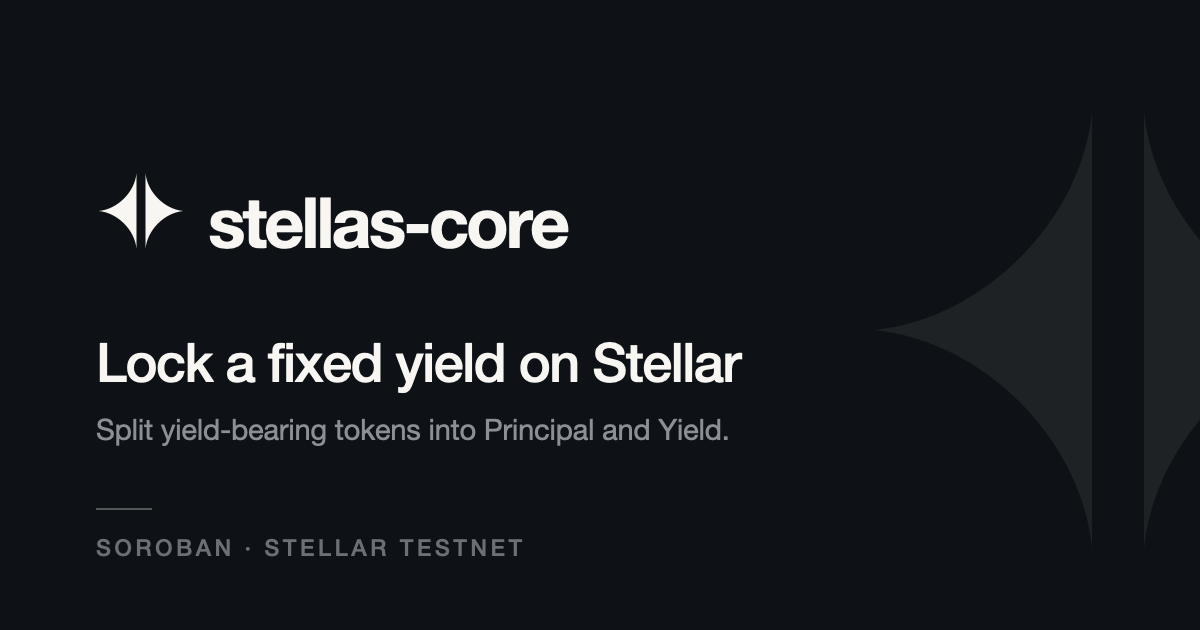
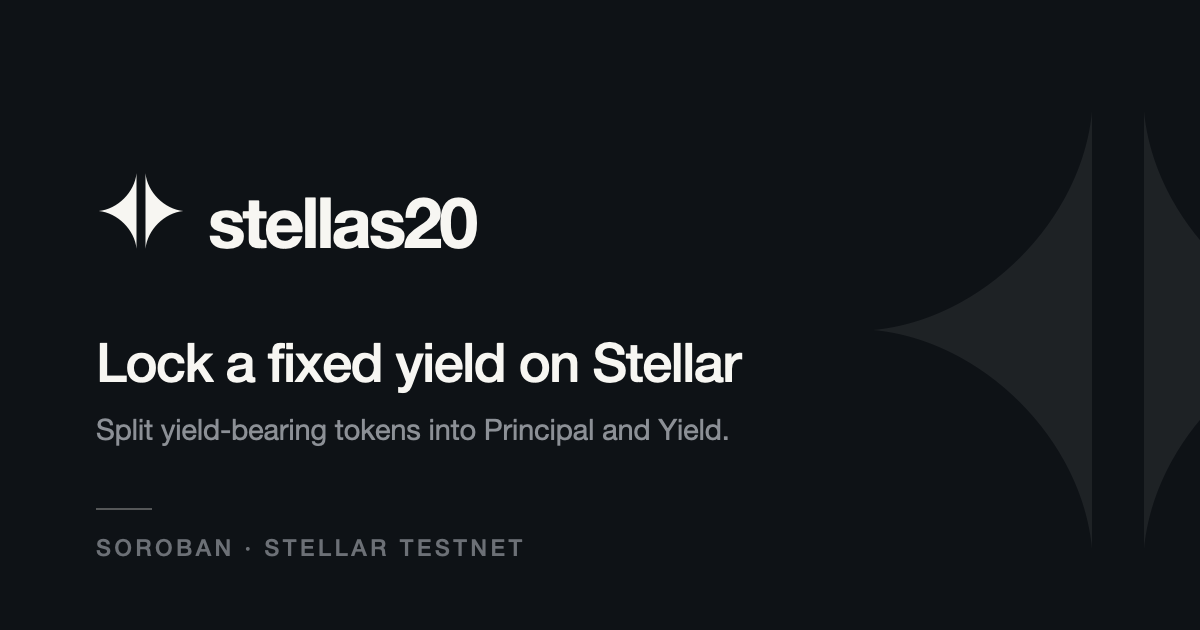
refactor(brand): rename the product from stellas-core to stellas20
The brand kit's lockup carries "stellas20", and "-core" was a technical
suffix that said nothing to a user. Renames the product across the page
title, Open Graph/Twitter meta, web manifest, package name, header, README,
threat model, runbooks and the .env example, and regenerates the social
card with the new wordmark. Contract names, crate names and deployed
addresses are untouched.

Changed region(s): [[0.3392, 0.3016, 0.4933, 0.3921]]

diff --git a/index.html b/index.html
@@ -9,14 +9,14 @@
     <link rel="manifest" href="/site.webmanifest" />
     <meta name="viewport" content="width=device-width, initial-scale=1.0" />
     <meta name="theme-color" content="#0e1216" />
-    <title>stellas-core — PT/YT Yield Splitting on Stellar</title>
+    <title>stellas20 — PT/YT Yield Splitting on Stellar</title>
     <meta
       name="description"
       content="Split any yield-bearing token into a Principal Token and a Yield Token on Stellar Testnet — the missing on-chain fixed-income primitive."
     />
     <meta property="og:type" content="website" />
     <meta property="og:url" content="https://stellas20.vercel.app/" />
-    <meta property="og:title" content="stellas-core — lock a fixed yield on Stellar" />
+    <meta property="og:title" content="stellas20 — lock a fixed yield on Stellar" />
     <meta
       property="og:description"
       content="Split a yield-bearing token into Principal (PT) and Yield (YT), then trade a fixed rate until maturity. Soroban · Testnet."
@@ -25,7 +25,7 @@
     <meta property="og:image:width" content="1200" />
     <meta property="og:image:height" content="630" />
     <meta name="twitter:card" content="summary_large_image" />
-    <meta name="twitter:title" content="stellas-core — lock a fixed yield on Stellar" />
+    <meta name="twitter:title" content="stellas20 — lock a fixed yield on Stellar" />
     <meta
       name="twitter:description"
       content="Split a yield-bearing token into Principal (PT) and Yield (YT), then trade a fixed rate until maturity. Soroban · Testnet."

diff --git a/src/App.tsx b/src/App.tsx
@@ -63,7 +63,7 @@ function App(): ReactElement {
 
       <footer className="border-t border-neutral-800/60 py-6">
         <p className="mx-auto max-w-5xl px-4 text-center text-xs text-neutral-400">
-          stellas-core · Testnet only · Never share your secret key.
+          stellas20 · Testnet only · Never share your secret key.
         </p>
       </footer>
 
@@ -117,7 +117,7 @@ function MarketContent(): ReactElement {
             Lock a fixed yield on Stellar
           </h1>
           <p className="mt-1 text-sm text-neutral-400">
-            stellas-core — split yield into principal &amp; yield tokens, then trade a fixed rate.
+            stellas20 — split yield into principal &amp; yield tokens, then trade a fixed rate.
             Testnet.
           </p>
         </div>

diff --git a/src/components/Header.tsx b/src/components/Header.tsx
@@ -10,7 +10,7 @@ export function Header(): ReactElement {
         <div className="flex min-w-0 items-center gap-2.5">
           <BrandMark className="h-7 w-7 shrink-0 text-neutral-50" />
           <div className="flex min-w-0 flex-col leading-none">
-            <span className="truncate text-sm font-semibold text-neutral-100">stellas-core</span>
+            <span className="truncate text-sm font-semibold text-neutral-100">stellas20</span>
             <span className="mt-1 hidden text-[11px] font-medium uppercase tracking-wider text-neutral-500 sm:block">
               PT/YT · Testnet
             </span>

diff --git a/README.md b/README.md
@@ -1,6 +1,6 @@
-# stellas-core — PT/YT Yield Splitting on Stellar
+# stellas20 — PT/YT Yield Splitting on Stellar
 
-**The missing fixed-income primitive for Stellar's RWA boom.** stellas-core splits a
+**The missing fixed-income primitive for Stellar's RWA boom.** stellas20 splits a
 yield-bearing token into two tradable parts — a **Principal Token (PT)**, redeemable 1:1 for the
 underlying at maturity (a zero-coupon bond / fixed rate), and a **Yield Token (YT)**, which
 receives all the yield until maturity (pure yield exposure). On Ethereum, Pendle turned this into
@@ -15,7 +15,7 @@ the backbone of on-chain fixed income; Stellar has no equivalent. This is that p
 
 ## The contracts
 
-stellas-core is five core Soroban contracts (six with the Blend vault) plus a factory-deployed
+stellas20 is five core Soroban contracts (six with the Blend vault) plus a factory-deployed
 PT/YT token pair per maturity — inter-contract communication is intrinsic to the design, not
 bolted on:
 

diff --git a/docs/RUNBOOKS.md b/docs/RUNBOOKS.md
@@ -1,4 +1,4 @@
-# Runbooks — stellas-core operations
+# Runbooks — stellas20 operations
 
 Operational procedures for the Testnet deployment. Every command here is the real one; §1 was
 executed end to end on 2026-07-25 and the transcript excerpts are from that run.

diff --git a/docs/THREAT_MODEL.md b/docs/THREAT_MODEL.md
@@ -1,4 +1,4 @@
-# Threat model — stellas-core
+# Threat model — stellas20
 
 **Status:** Testnet only. No mainnet deployment exists and none is planned inside this phase.
 **Last reviewed:** 2026-07-25, against the tree at Phase 7. Findings and the storage/TTL audit
